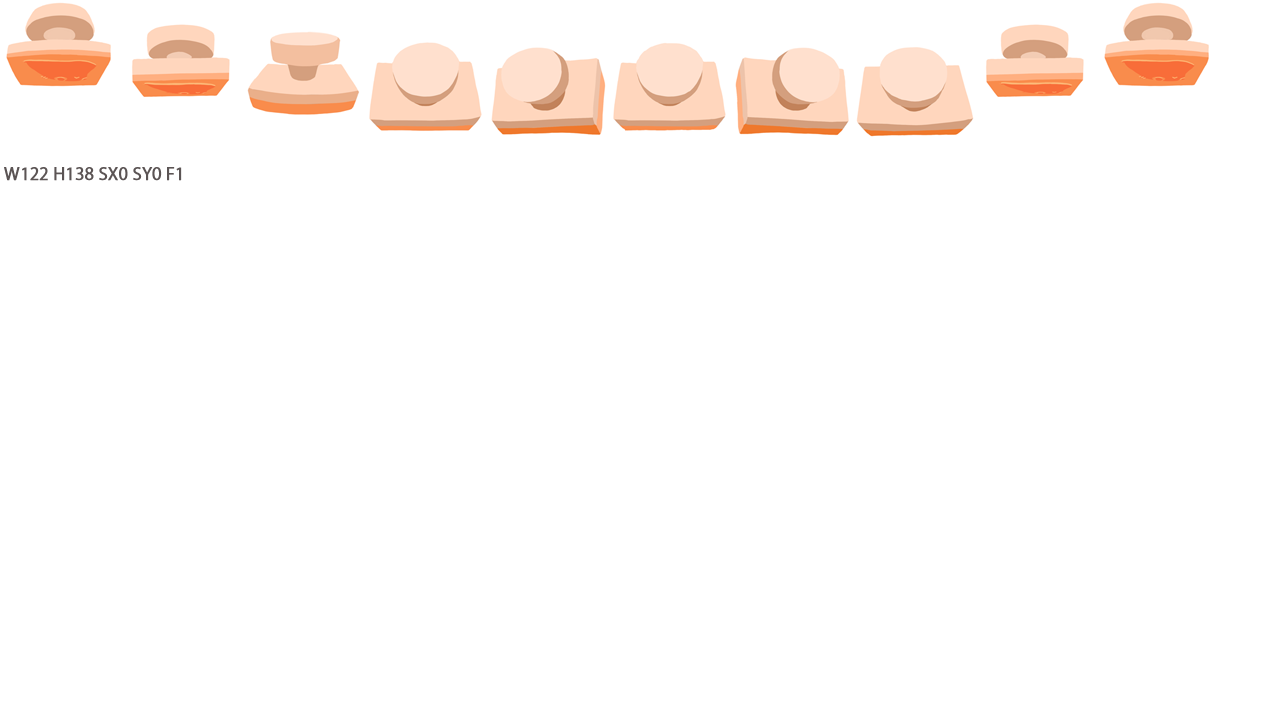
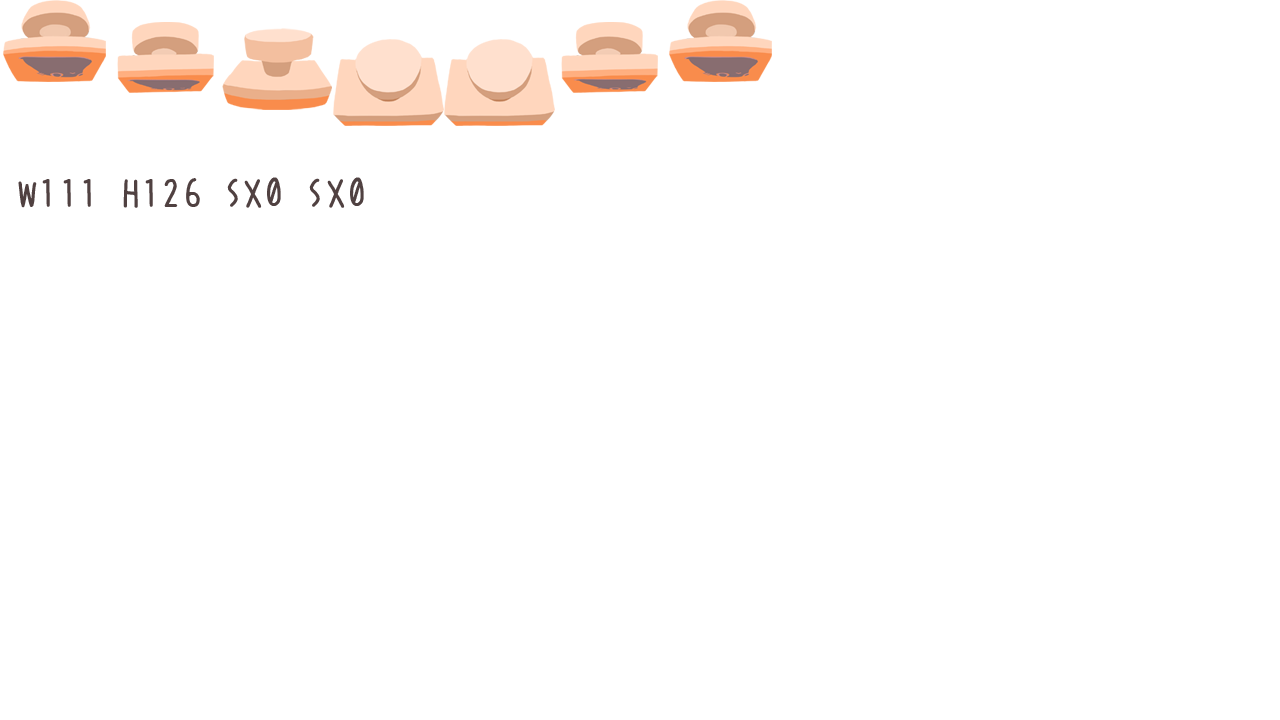
バグ修正

Changed region(s): [[0.0, 0.0, 0.9688, 0.2139], [0.0, 0.2139, 0.2812, 0.3056]]

diff --git a/player.cpp b/player.cpp
@@ -51,11 +51,13 @@ void Player::init()
 	if (m_keyObj)
 	{
 		m_keyObj->clear();
+		m_keyObj->m_alpha = 0;
 	}
 	else
 	{
 
 		m_keyObj = new OBJ2D;
+		m_keyObj->m_alpha = 0;
 	}
 	m_life = P_LIFE_MAX;
 
@@ -101,10 +103,11 @@ void Player::restart()
 	if (!m_isKeyHandled)
 	{
 		m_keyObj->clear();
+		m_keyObj->m_alpha = 0;
 	}
 	else
 	{
-		m_keyObj->m_alpha = 200;
+		m_keyObj->m_alpha = 0;
 	}
 	m_speed = { 0,0,0 };
 	m_speedAcc = { P_SPEED_AX,P_JUMP_POWER,0 };
@@ -306,6 +309,25 @@ void Player::normalMove()
 		m_speed.y = 0;
 	}
 
+	// 鍵移動
+	if (m_isKeyHandled && m_keyObj->m_pSprData)
+	{
+		m_keyObj->m_alpha = 200;
+		m_keyObj->m_pos = m_pos - Vector3(!m_custom.reflectX ? -m_size.x / 2 : m_keyObj->m_pSprData->width + m_size.x / 2, 2 * m_size.y, 0);
+		if (m_keyObj->m_pos.x > PAGE_WIDTH - m_keyObj->m_pSprData->width - m_size.x) {
+			m_keyObj->m_pos.x = PAGE_WIDTH - m_keyObj->m_pSprData->width - m_size.x;
+		}
+		if (m_keyObj->m_pos.x < m_size.x) {
+			m_keyObj->m_pos.x = m_size.x;
+		}
+		if (m_keyObj->m_pos.y > PAGE_HEIGHT - m_keyObj->m_pSprData->height) {
+			m_keyObj->m_pos.y = PAGE_HEIGHT - m_keyObj->m_pSprData->height;
+		}
+		if (m_keyObj->m_pos.y < 0) {
+			m_keyObj->m_pos.y = 0;
+		}
+	}
+
 	// アニメーションデータ
 	if (fabsf(m_speed.x - 0.0f) > FLT_EPSILON && m_isOnGround && m_pAnimeData != e_pAnimePlayerRun)
 	{
@@ -497,9 +519,7 @@ void Player::draw()
 #endif // DEBUG
 
 	OBJ2DEX::draw();
-	if (m_isKeyHandled && m_keyObj->m_pSprData)
-	{
-		m_keyObj->m_pos = m_pos - Vector3(!m_custom.reflectX ? -m_size.x / 2 : m_keyObj->m_pSprData->width + m_size.x / 2, 2 * m_size.y, 0);
+	if (m_isKeyHandled) {
 		m_keyObj->draw();
 	}
 
@@ -612,6 +632,7 @@ void PlayerManager::manageConcentration()
 		m_isTranscriptAble = true;
 		m_isTranscriptCanceled = false;
 		m_step = STEP::INIT + 1;
+		m_pPlayer->m_keyObj->m_alpha = 0;
 		break;
 	case STEP::INIT+1:
 		m_isPlayerOnLeft = m_pPlayer->m_liveInPagination % 2 != 0;

diff --git a/sprite_data.cpp b/sprite_data.cpp
@@ -274,16 +274,13 @@ SPRITE_CENTER e_sprHitObj = SPRITE_CENTER(TEX_SMOKE, 0, 0, 64, 64);
 
 SPRITE_CENTER e_pAnimeStamp[] =
 {
-	SPRITE_CENTER(TEX_ANIME_STAMP,122 * 0,0,122,138,20),
-	SPRITE_CENTER(TEX_ANIME_STAMP,122 * 1,0,122,138,8),
-	SPRITE_CENTER(TEX_ANIME_STAMP,122 * 2,0,122,138,8),
-	SPRITE_CENTER(TEX_ANIME_STAMP,122 * 3,0,122,138,8),
-	SPRITE_CENTER(TEX_ANIME_STAMP,122 * 4,0,122,138,8),
-	SPRITE_CENTER(TEX_ANIME_STAMP,122 * 5,0,122,138,8),
-	SPRITE_CENTER(TEX_ANIME_STAMP,122 * 6,0,122,138,8),
-	SPRITE_CENTER(TEX_ANIME_STAMP,122 * 7,0,122,138,8),
-	SPRITE_CENTER(TEX_ANIME_STAMP,122 * 8,0,122,138,8),
-	SPRITE_CENTER(TEX_ANIME_STAMP,122 * 9,0,122,138,50),
+	SPRITE_CENTER(TEX_ANIME_STAMP,111 * 0,0,111,126,20),
+	SPRITE_CENTER(TEX_ANIME_STAMP,111 * 1,0,111,126,8),
+	SPRITE_CENTER(TEX_ANIME_STAMP,111 * 2,0,111,126,8),
+	SPRITE_CENTER(TEX_ANIME_STAMP,111 * 3,0,111,126,8),
+	SPRITE_CENTER(TEX_ANIME_STAMP,111 * 4,0,111,126,8),
+	SPRITE_CENTER(TEX_ANIME_STAMP,111 * 5,0,111,126,8),
+	SPRITE_CENTER(TEX_ANIME_STAMP,111 * 6,0,111,126,50),
 	SPRITE_CENTER(-1, 0, 0, 0, 0),
 };
 

diff --git a/scene_main.cpp b/scene_main.cpp
@@ -277,9 +277,10 @@ void SceneMain::update()
 			pStageManager->init(m_stageNO);
 			pBook->m_pfMove = &Book::turnPages;
 			pBook->m_targetPaperNO = START_PAGINATION / 2;
+			break;
 
 		}
-		if ((KEY_TRACKER.pressed.PageDown || PAD_TRACKER.rightTrigger == PAD_TRACKER.PRESSED) && pBook->m_step > STEP::END && pBook->m_isOpened)
+		else if ((KEY_TRACKER.pressed.PageDown || PAD_TRACKER.rightTrigger == PAD_TRACKER.PRESSED) && pBook->m_step > STEP::END && pBook->m_isOpened)
 		{
 			++m_stageNO;
 			m_step = STEP::INIT + 3;
@@ -292,6 +293,7 @@ void SceneMain::update()
 			pBook->m_pfMove = &Book::turnPages;
 			pBook->m_targetPaperNO = START_PAGINATION / 2;
 			m_timer = 0;
+			break;
 
 		}
 

diff --git a/effect.cpp b/effect.cpp
@@ -214,7 +214,7 @@ void effectPlayerInit(Effect *obj) {
 	case STEP::BEGIN + 1:
 		obj->m_isVisible = true;
 		obj->m_timer++;
-		if (obj->m_animeNO == 7) pEffectManager->isStampDown = true;
+		if (obj->m_animeNO == 4) pEffectManager->isStampDown = true;
 		if (obj->m_timer > 100) obj->m_alpha -= 10;
 		if (obj->m_timer > 130) obj->m_step = STEP::FINISH;
 		break;

diff --git a/stage00_data.cpp b/stage00_data.cpp
@@ -56,6 +56,19 @@ v3 INIT_POS = e_initPos[0];
 
 int P_LIFE_MAX = e_initLife[0];
 
+
+STAGE_DATA* stageSetData[] = {
+	stage00_setData,
+	stage01_setData,
+	stage02_setData,
+	stage03_setData,
+	stage04_setData,
+	stage05_setData,
+	stage06_setData,
+};
+
+
+
 STAGE_DATA stage00_setData[] = {
 
 	// ページ 左

diff --git a/map_obj.cpp b/map_obj.cpp
@@ -230,18 +230,6 @@ void MapObj::draw()
 }
 
 
-
-STAGE_DATA* stageSetData[] = {
-	stage00_setData,
-	stage01_setData,
-	stage02_setData,
-	stage03_setData,
-	stage04_setData,
-	stage05_setData,
-	stage06_setData,
-};
-
-
 StageManager::StageManager()
 {
 

diff --git a/stage_data.h b/stage_data.h
@@ -20,6 +20,9 @@ typedef Vector3 v3;
 //#define STAGE_MAX_NUM (20)
 
 
+extern STAGE_DATA* stageSetData[];
+
+
 extern int e_stageHeight[];
 extern int e_startPagination[];
 extern v3 e_initPos[];

diff --git a/game.h b/game.h
@@ -9,7 +9,7 @@
 #include "./3dgp/template.h"
 #include "./3dgp/scene.h"
 
-//#define DEBUG
+#define DEBUG
 
 #include <vector>
 
